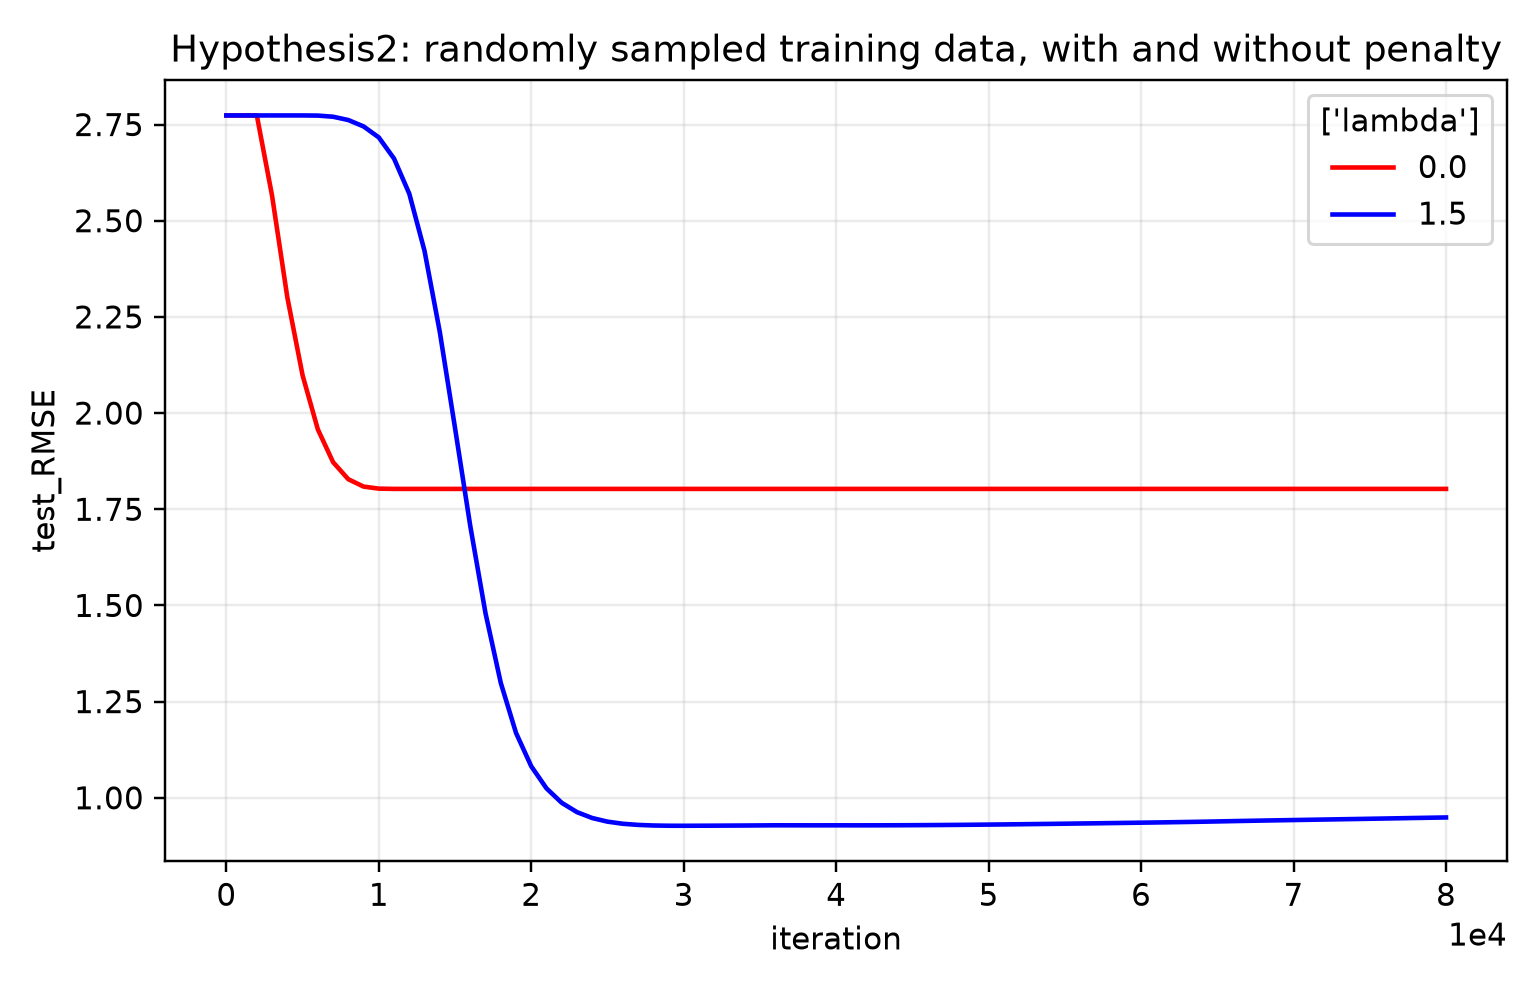
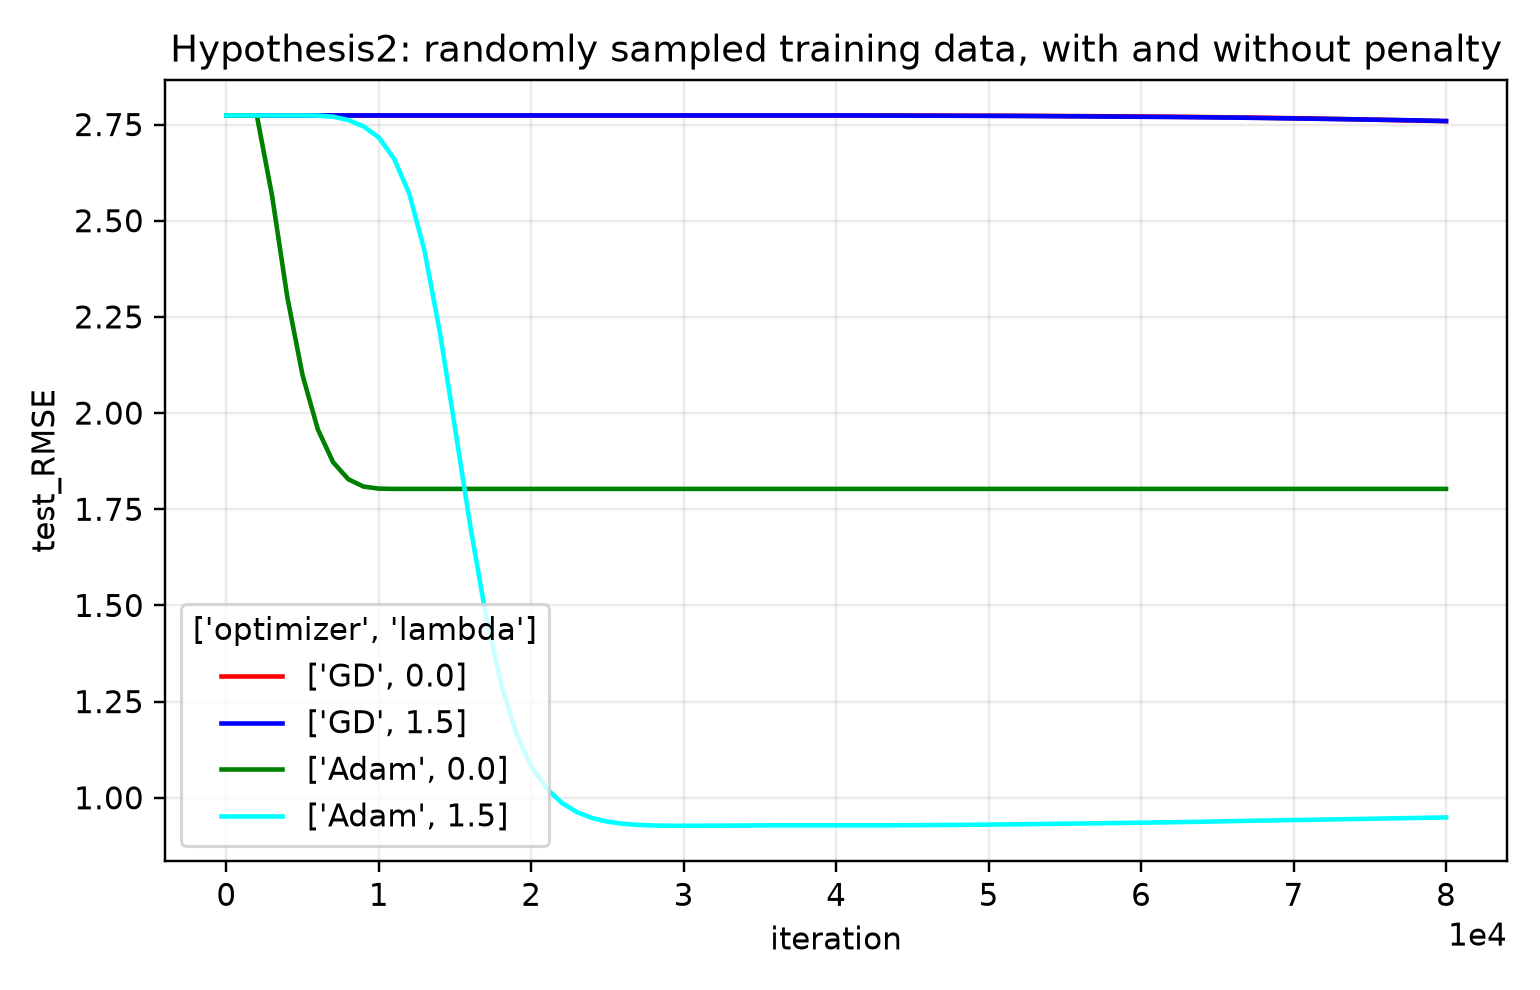
reorganized plots to better display table 2 results

diff --git a/code/synth/plot.py b/code/synth/plot.py
@@ -658,11 +658,11 @@ def main():
     if args.result == "hypoth2":
         folder = "./hypothesis2"
         my_plot(
-            filename_list = ["./ml-100k/tb2_Adam_lam0_prop0.8.txt","./ml-100k/tb2_Adam_lam1.5_prop0.8.txt",],
+            filename_list = ["./ml-100k/tb2_GD_lam0_prop0.8.txt","./ml-100k/tb2_GD_lam1.5_prop0.8.txt","./ml-100k/tb2_Adam_lam0_prop0.8.txt","./ml-100k/tb2_Adam_lam1.5_prop0.8.txt",],
             display_properties = "test_RMSE",
             figure_title ="Hypothesis2: randomly sampled training data, with and without penalty",
-            legend_name = ["lambda"],
-            legend_arms_name = [0.0, 1.5],
+            legend_name = ["optimizer","lambda"],
+            legend_arms_name = [["GD", 0.0],["GD", 1.5],["Adam", 0.0],["Adam", 1.5]],
         )
         my_plot(
             filename_list = [f"{folder}/h2_Adam_head_lam0_prop0.8.txt",f"{folder}/h2_Adam_head_lam1.5_prop0.8.txt",],
